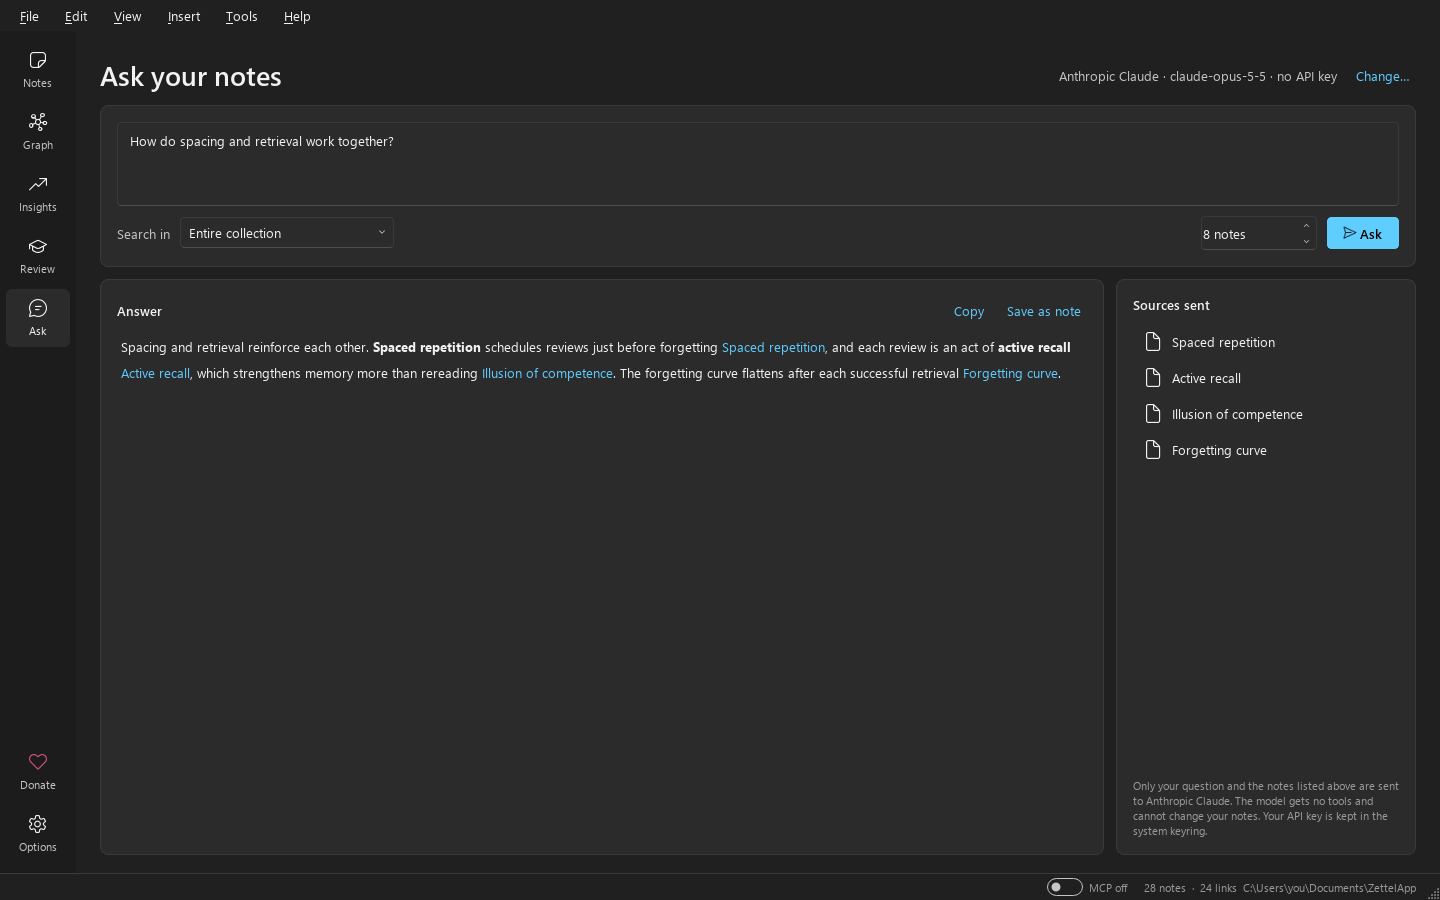
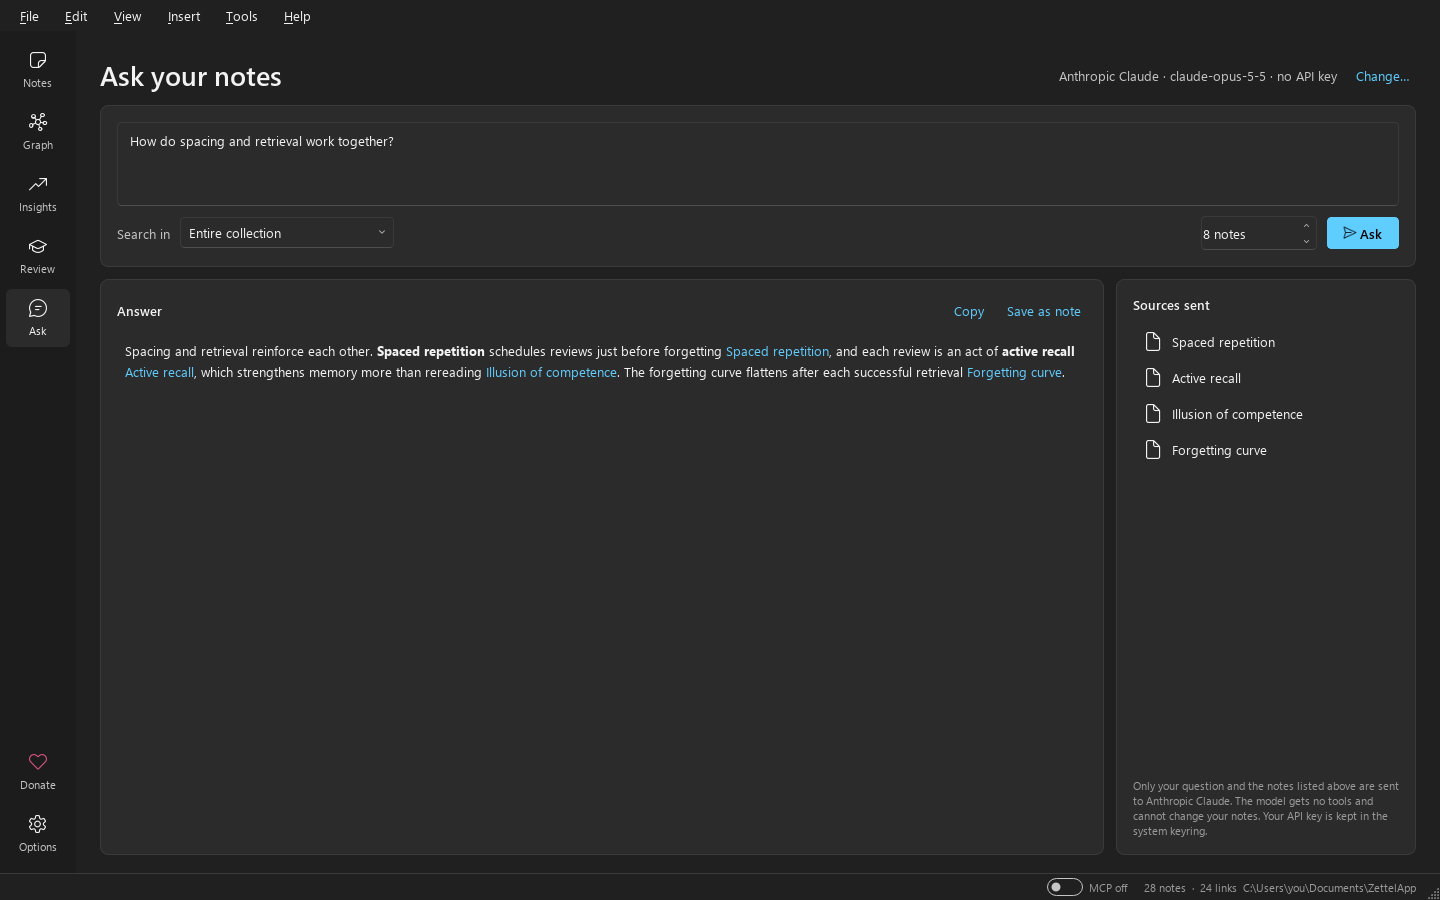
Preview lines at 1.25 of the font's line spacing; refresh the website's screenshots

Changed region(s): [[0.0938, 0.3733, 0.75, 0.4356]]

diff --git a/zettelapp/ui/preview.py b/zettelapp/ui/preview.py
@@ -55,10 +55,10 @@ h1 {{ font-size: {round(px * 1.6)}px; font-weight: 600; margin: {step * 2}px 0 {
 h2 {{ font-size: {round(px * 1.3)}px; font-weight: 600; margin: {step * 2}px 0 {step // 2}px 0; }}
 h3, h4, h5, h6 {{ font-size: {round(px * 1.1)}px; font-weight: 600;
     margin: {round(step * 1.5)}px 0 {step // 2}px 0; }}
-p {{ {block} line-height: 150%; }}
+p {{ {block} line-height: 125%; }}
 p.picture {{ line-height: 100%; }}
 ul, ol {{ {block} }}
-li {{ margin: 0 0 {step // 3}px 0; line-height: 150%; }}
+li {{ margin: 0 0 {step // 3}px 0; line-height: 125%; }}
 em, i {{ font-family: {italic}; }}
 a {{ color: {t.link}; text-decoration: none; }}
 a.new-note {{ color: {t.text_muted}; text-decoration: underline; }}
